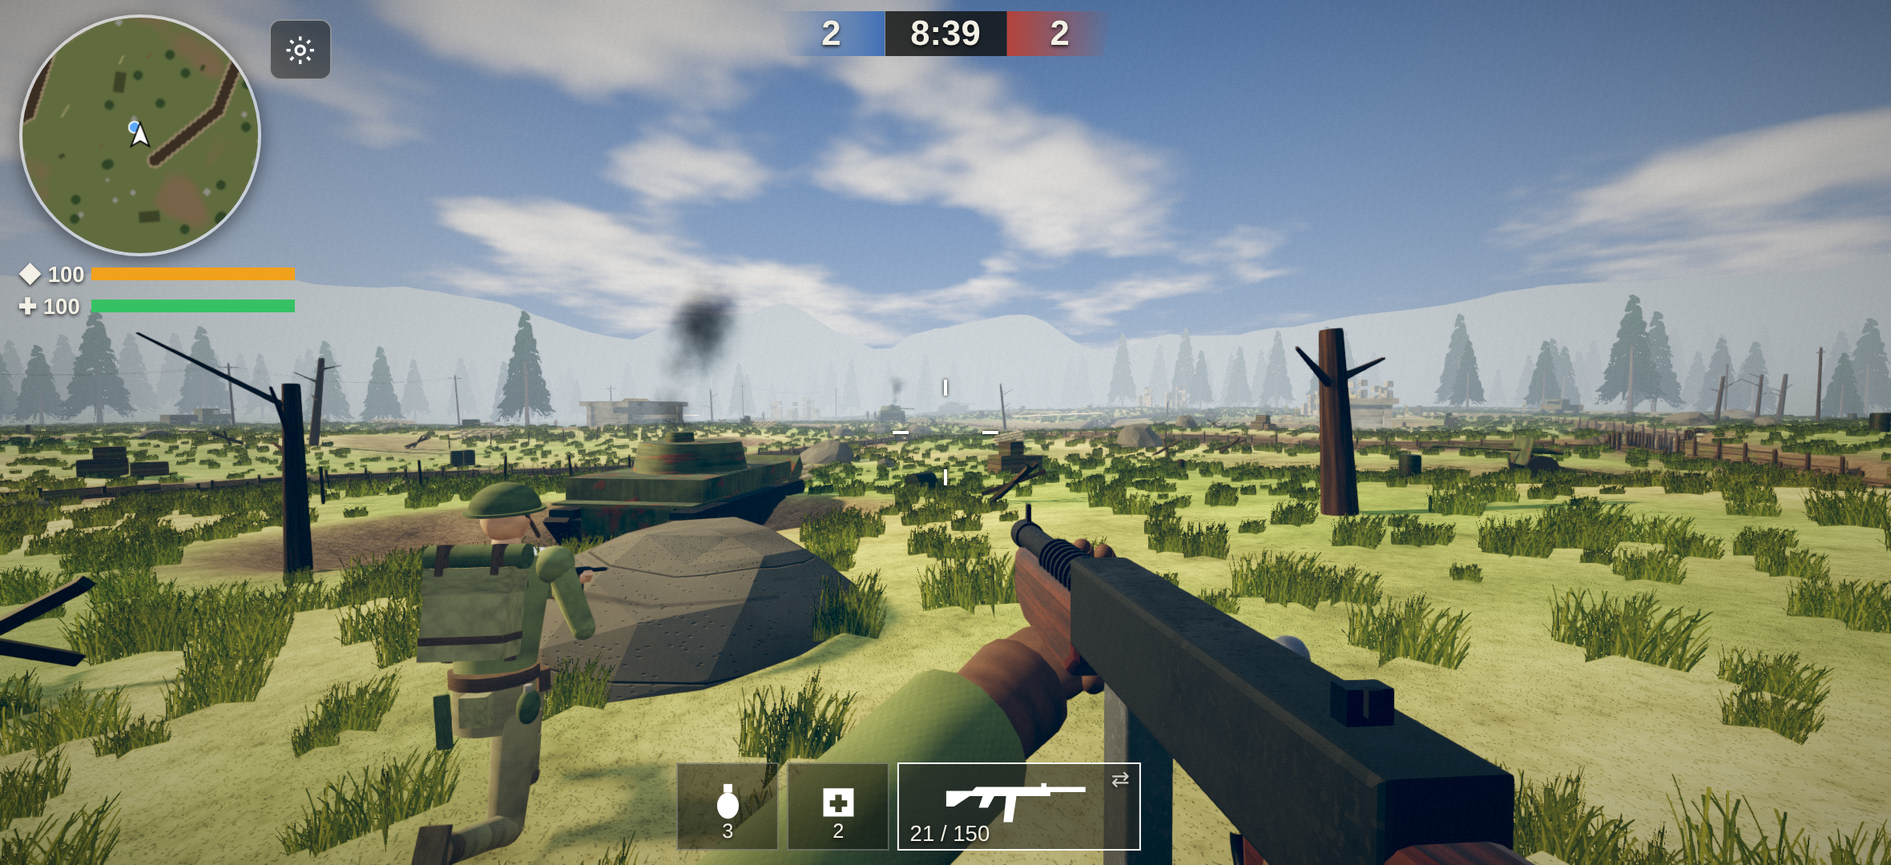
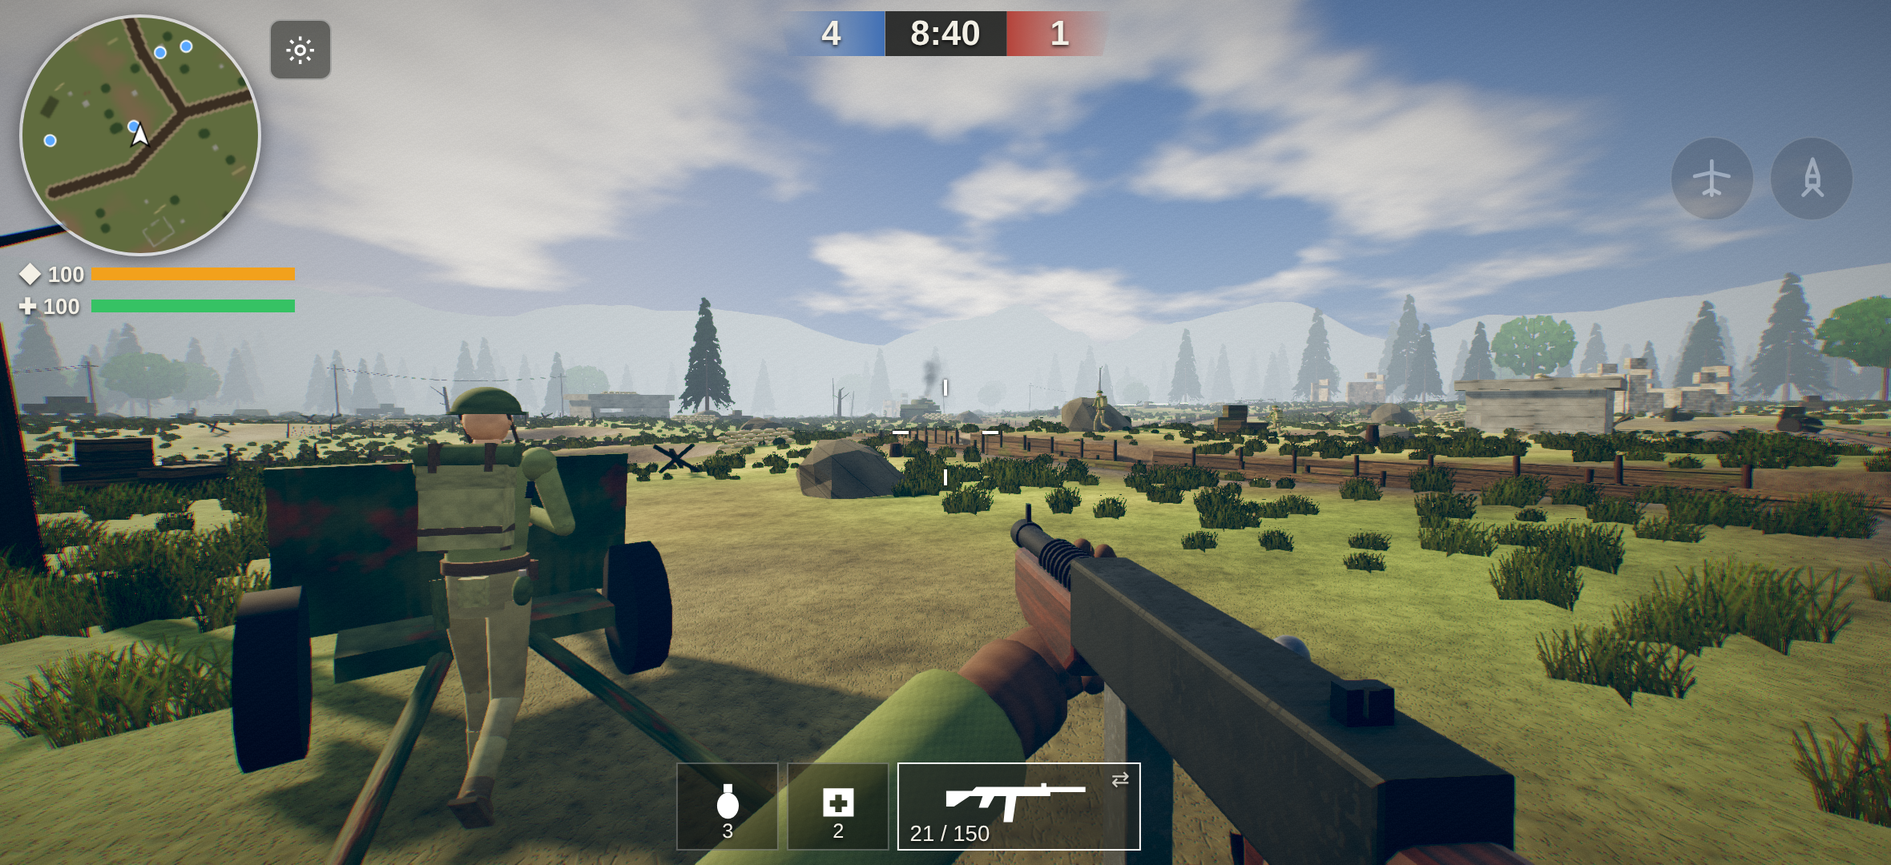
Front de Fer : occlusion ambiante, diffusion solaire, ombres de nuages, boue mouillée, feuillus
Claude-Session: https://claude.ai/code/session_019pJcyirwRmhVyYpd9bGVbS

diff --git a/front-de-fer/world.js b/front-de-fer/world.js
@@ -39,6 +39,10 @@ T.pine=tex(512,null,(g,S)=>{g.clearRect(0,0,S,S);g.strokeStyle='#3a2c20';g.lineW
   for(let k=0;k<26;k++){const f=k/26,bx=S/2+dir*w*f,by=y+droop*f*f+rr(-3,3),sh=rr(0,1),top=1-t*.45;
    g.strokeStyle=`rgba(${(22+sh*40)*top|0},${(46+sh*52)*top|0},${(26+sh*22)*top|0},.95)`;g.lineWidth=rr(1.2,2.6);
    for(let n=0;n<5;n++){const a=rr(0,6.28),l=rr(5,13);g.beginPath();g.moveTo(bx,by);g.lineTo(bx+Math.cos(a)*l,by+Math.sin(a)*l*.7+3);g.stroke()}}}});
+T.leafy=tex(512,null,(g,S)=>{g.clearRect(0,0,S,S);g.strokeStyle='#3b2c20';g.lineCap='round';g.lineWidth=16;g.beginPath();g.moveTo(S/2,S);g.lineTo(S/2,S*.5);g.stroke();
+ for(let i=0;i<9;i++){const a=rr(-1.3,1.3),l=rr(.12,.3)*S;g.lineWidth=rr(3,8);g.beginPath();g.moveTo(S/2,S*rr(.5,.66));g.lineTo(S/2+Math.sin(a)*l,S*.55-Math.cos(a)*l);g.stroke()}
+ for(let i=0;i<420;i++){const a=rnd()*6.283,r=Math.sqrt(rnd()),x=S/2+Math.cos(a)*r*S*.44,y=S*.36+Math.sin(a)*r*S*.33,t=clamp((y/S-.05)/.62,0,1),sh=rnd();
+  g.fillStyle=`rgba(${(70-t*38+sh*26)|0},${(112-t*46+sh*30)|0},${(44-t*18+sh*12)|0},.93)`;g.beginPath();g.ellipse(x,y,rr(9,24),rr(7,17),rnd()*3,0,7);g.fill()}});
 T.grass=tex(256,null,(g,S)=>{g.clearRect(0,0,S,S);for(let i=0;i<150;i++){const x=rr(.08,.92)*S,h=rr(.3,.95)*S,b=rr(-.22,.22)*S,sh=rnd();
  g.strokeStyle=`rgb(${70+sh*90|0},${92+sh*72|0},${36+sh*30|0})`;g.lineWidth=rr(1.5,3.6);g.beginPath();g.moveTo(x,S);g.quadraticCurveTo(x+b*.2,S-h*.6,x+b,S-h);g.stroke()}});
 T.cloud=tex(256,(u,v)=>{const d=Math.hypot(u-.5,(v-.5)*1.7)*2,n=fbm(u*5+3,v*5,5,0),a=clamp((n-.32-d*.42)*3.2,0,1),sh=clamp(.78+(.6-v)*.5+n*.2,0,1);return[255*sh,255*sh,255*sh,a*235]});
@@ -59,7 +63,7 @@ const sky=new THREE.Mesh(new THREE.SphereGeometry(900,32,16),new THREE.ShaderMat
 float hh(vec2 p){return fract(sin(dot(p,vec2(127.1,311.7)))*43758.5453);}
 float nn(vec2 p){vec2 i=floor(p),f=fract(p);f=f*f*(3.-2.*f);return mix(mix(hh(i),hh(i+vec2(1.,0.)),f.x),mix(hh(i+vec2(0.,1.)),hh(i+vec2(1.,1.)),f.x),f.y);}
 float fb(vec2 p){float a=.5,t=0.;for(int i=0;i<5;i++){t+=a*nn(p);p=p*2.03+vec2(17.,9.);a*=.5;}return t;}
-void main(){vec3 n=normalize(d);float t=clamp(n.y,0.,1.);vec3 c=mix(hor,top,pow(t,.36));float s=max(dot(n,sd),0.);c+=vec3(1.,.9,.7)*(pow(s,900.)*6.+pow(s,24.)*.5+pow(s,4.)*.18);
+void main(){vec3 n=normalize(d);float t=clamp(n.y,0.,1.);float s=max(dot(n,sd),0.);vec3 c=mix(mix(hor,vec3(1.12,.96,.78),pow(s,2.5)*.4),top,pow(t,.36));c+=vec3(1.,.9,.7)*(pow(s,900.)*6.+pow(s,24.)*.5+pow(s,4.)*.18);
  if(n.y>.01){vec2 p=n.xz/(n.y+.13)*1.25+vec2(time*.004,time*.0017);float cl=fb(p),cov=smoothstep(.47,.74,cl),lit=clamp((cl-fb(p+sd.xz*.22))*2.6+.55,0.,1.);
   vec3 cc=mix(vec3(.36,.4,.48),vec3(1.3,1.25,1.15),lit)+vec3(1.,.8,.55)*pow(s,6.)*.8;c=mix(c,cc,cov*smoothstep(.01,.2,n.y)*.93);}
  gl_FragColor=vec4(c,1.);}`}));
@@ -72,6 +76,7 @@ scene.add(new THREE.HemisphereLight(C(0xc4d6ee),C(0x8f8668),.85),new THREE.Ambie
  const t=new THREE.CanvasTexture(c);t.encoding=THREE.sRGBEncoding;t.mapping=THREE.EquirectangularReflectionMapping;const pm=new THREE.PMREMGenerator(renderer);scene.environment=pm.fromEquirectangular(t).texture;pm.dispose()}
 const sun=new THREE.DirectionalLight(C(0xffe6bc),2.3);sun.castShadow=true;{const sc=sun.shadow.camera;sc.left=-65;sc.right=65;sc.top=65;sc.bottom=-65;sc.near=1;sc.far=320}
 sun.shadow.mapSize.set(coarse?2048:4096,coarse?2048:4096);sun.shadow.bias=-.0004;sun.shadow.normalBias=.04;scene.add(sun,sun.target);
+const CSG='float chh(vec2 p){return fract(sin(dot(p,vec2(127.1,311.7)))*43758.5453);}float cnn(vec2 p){vec2 i=floor(p),f=fract(p);f=f*f*(3.-2.*f);return mix(mix(chh(i),chh(i+vec2(1.,0.)),f.x),mix(chh(i+vec2(0.,1.)),chh(i+vec2(1.,1.)),f.x),f.y);}float cshadow(vec2 p,float t){p=p*.011+vec2(t*.012,t*.005);float n=cnn(p)*.6+cnn(p*2.1+7.)*.3+cnn(p*4.3)*.1;return mix(.66,1.,smoothstep(.38,.62,n));}';
 const SM=o=>new THREE.MeshStandardMaterial(Object.assign({roughness:.9,metalness:0,envMapIntensity:.45},o));
 // ---------- tranchées et relief ----------
 const MAP=100,HW=1.3,DEPTH=1.3;
@@ -96,7 +101,8 @@ function H(x,z){const fx=clamp((x-GO)/GS,0,GN-1.001),fz=clamp((z-GO)/GS,0,GN-1.0
   let m=1-sst(1.7,4.2+fbm(x*.2,z*.2,2)*3,d);for(const c of CR){const q=Math.hypot(x-c.x,z-c.z)/c.r;if(q<1.6)m=Math.max(m,1-sst(.9,1.6,q))}
   m=Math.max(m,sst(.6,.75,fbm(x*.05+50,z*.05+9,3))*.8);tmp.lerp(mud,m);if(d<HW)tmp.lerp(wet,.75);tmp.toArray(col,i*3)}
  g.setAttribute('color',new THREE.BufferAttribute(col,3));g.computeVertexNormals();
- const gm=SM({map:T.ground,bumpMap:T.ground,bumpScale:.05,vertexColors:true,roughness:.95});gm.onBeforeCompile=sh=>{sh.fragmentShader=sh.fragmentShader.replace('#include <map_fragment>','vec4 tA=texture2D(map,vUv),tB=texture2D(map,vUv*.137),tC=texture2D(map,vUv*.021);diffuseColor*=mapTexelToLinear(vec4(tA.rgb*(.5+tB.rgb*.85)*(.62+tC.rgb*.65),1.));')};
+ const gm=SM({map:T.ground,bumpMap:T.ground,bumpScale:.05,vertexColors:true,roughness:.95});gm.onBeforeCompile=sh=>{sh.uniforms.uTime=windU;sh.vertexShader='uniform float uTime;varying float vCs;'+CSG+'\n'+sh.vertexShader.replace('#include <begin_vertex>','#include <begin_vertex>\nvCs=cshadow(position.xz,uTime);');
+  sh.fragmentShader='varying float vCs;\n'+sh.fragmentShader.replace('#include <map_fragment>','vec4 tA=texture2D(map,vUv),tB=texture2D(map,vUv*.137),tC=texture2D(map,vUv*.021);diffuseColor*=mapTexelToLinear(vec4(tA.rgb*(.5+tB.rgb*.85)*(.62+tC.rgb*.65),1.));diffuseColor.rgb*=vCs;').replace('#include <roughnessmap_fragment>','#include <roughnessmap_fragment>\nroughnessFactor*=mix(1.,.28,(1.-smoothstep(.05,.13,vColor.g))*tB.r);')};
  const m=new THREE.Mesh(g,gm);m.receiveShadow=true;scene.add(m);
  const og=new THREE.PlaneGeometry(2400,2400,80,80);og.rotateX(-Math.PI/2);const op=og.attributes.position;
  for(let i=0;i<op.count;i++){const x=op.getX(i),z=op.getZ(i),r=Math.hypot(x,z);op.setY(i,baseH(x,z)-.6-(Math.max(Math.abs(x),Math.abs(z))<100?9:0)+Math.max(0,r-200)*.11*(.4+fbm(x*.004,z*.004,3)*1.6))}og.computeVertexNormals();
@@ -217,28 +223,30 @@ truck(-10,82,.4);truck(48,80,-1.2);truck(12,-82,2.8);truck(-46,-80,1.9);truck(-6
   cyl('post',r*.62,r,new V3(x,y-.2,z),new V3(x+tx,y+h,z+tz),8);if(h>2){for(let k=0;k<3;k++){const f=rr(.45,.95),a=rr(0,6.28),l=rr(.6,1.6);cyl('post',r*.12,r*.3,new V3(x+tx*f,y+h*f,z+tz*f),new V3(x+tx*f+Math.cos(a)*l,y+h*f+l*rr(.3,.9),z+tz*f+Math.sin(a)*l),5)}}
   colCirc.push({x,z,r:r+.05});solid(x,y+h/2,z,r,h/2,r,0,{col:false,mat:'wood'});reserve(x,z,1)}
  for(const pz of[66,-66]){let prev=null;for(let px=-90;px<=90;px+=22){const x=px+rr(-2,2),z=pz+rr(-2,2);if(!isFree(x,z,.5)){prev=null;continue}const y=H(x,z),tl=rr(-.06,.06),top=new V3(x+tl*7,y+7,z);cyl('post',.09,.13,new V3(x,y-.3,z),top,7);box('post',1.5,.09,.09,top.x,top.y-.5,top.z,0,0,0,2);
-   colCirc.push({x,z,r:.16});reserve(x,z,.8);if(prev&&rnd()>.25)for(const o of[-.6,.6]){const pts=[];for(let k=0;k<=8;k++){const u=k/8;pts.push(new V3(lerp(prev.x,top.x,u)+o,lerp(prev.y,top.y,u)-.5-Math.sin(u*Math.PI)*1.1,lerp(prev.z,top.z,u)))}(B.wire=B.wire||[]).push(new THREE.TubeGeometry(new THREE.CatmullRomCurve3(pts),16,.012,3).toNonIndexed())}prev=top}}
+   colCirc.push({x,z,r:.16});reserve(x,z,.8);if(prev&&rnd()>.25)for(const o of[-.6,.6]){const pts=[];for(let k=0;k<=8;k++){const u=k/8;pts.push(new V3(lerp(prev.x,top.x,u)+o,lerp(prev.y,top.y,u)-.5-Math.sin(u*Math.PI)*1.1,lerp(prev.z,top.z,u)))}(B.wire=B.wire||[]).push(new THREE.TubeGeometry(new THREE.CatmullRomCurve3(pts),16,.022,4).toNonIndexed())}prev=top}}
  const tsh=new THREE.Shape();tsh.moveTo(-1.5,0);tsh.lineTo(0,1.75);tsh.lineTo(1.5,0);tsh.lineTo(-1.5,0);const tg=new THREE.ExtrudeGeometry(tsh,{depth:3.6,bevelEnabled:false});tg.translate(0,0,-1.8);
  for(const t of[[-34,90,.3],[36,92,-.4],[-34,-92,.2],[38,-90,-.3],[62,88,1.2],[-62,-88,1.4]]){if(!isFree(t[0],t[1],2))continue;const y=H(t[0],t[1])-.05;put('tent',tg,t[0],y,t[1],t[2]);solid(t[0],y+.6,t[1],1.2,.6,1.8,t[2],{mat:'sand'});reserve(t[0],t[1],3)}}
 // flaques d'eau au fond des cratères
 {const ws=[];for(const c of CR){if(c.r<2.5)continue;const g=new THREE.CircleGeometry(c.r*.56,20);g.rotateX(-Math.PI/2);g.translate(c.x,Hraw(c.x,c.z)+c.r*.085,c.z);ws.push(g.toNonIndexed())}
- if(ws.length){const w=new THREE.Mesh(mergeG(ws),SM({color:C(0x23241c),roughness:.03,metalness:.1,envMapIntensity:2.4,transparent:true,opacity:.9}));w.receiveShadow=true;scene.add(w)}}
+ if(ws.length){const w=new THREE.Mesh(mergeG(ws),SM({color:C(0x1c1d16),roughness:.06,metalness:.1,envMapIntensity:1.1,transparent:true,opacity:.88}));w.receiveShadow=true;scene.add(w)}}
 // arbres, herbe, rochers
 function cards(n){const gs=[];for(let i=0;i<n;i++){const g=new THREE.PlaneGeometry(1,1);g.translate(0,.5,0);g.rotateY(i*Math.PI/n);gs.push(g.toNonIndexed());const g2=g.clone();g2.rotateY(Math.PI);gs.push(g2.toNonIndexed())}
  const g=mergeG(gs),nr=g.attributes.normal;for(let i=0;i<nr.count;i++)nr.setXYZ(i,0,1,0);return g}
 const D=new THREE.Object3D(),tcol=new THREE.Color(),windU={value:0};
-function windy(m,ax,az){m.onBeforeCompile=sh=>{sh.uniforms.uTime=windU;sh.vertexShader='uniform float uTime;\n'+sh.vertexShader.replace('#include <begin_vertex>','vec3 transformed=vec3(position);float wv=sin(uTime*1.7+instanceMatrix[3].x*.35+instanceMatrix[3].z*.27)+sin(uTime*2.9+instanceMatrix[3].x*.9)*.4;transformed.x+=wv*'+ax+'*position.y*position.y;transformed.z+=wv*'+az+'*position.y*position.y;')};return m}
+function windy(m,ax,az,shade){m.onBeforeCompile=sh=>{sh.uniforms.uTime=windU;sh.fragmentShader='varying float vCs;\n'+sh.fragmentShader.replace('#include <map_fragment>','#include <map_fragment>\ndiffuseColor.rgb*=vCs*'+shade+';');sh.vertexShader='uniform float uTime;varying float vCs;'+CSG+'\n'+sh.vertexShader.replace('#include <begin_vertex>','vec3 transformed=vec3(position);vCs=cshadow(instanceMatrix[3].xz,uTime);float wv=sin(uTime*1.7+instanceMatrix[3].x*.35+instanceMatrix[3].z*.27)+sin(uTime*2.9+instanceMatrix[3].x*.9)*.4;transformed.x+=wv*'+ax+'*position.y*position.y;transformed.z+=wv*'+az+'*position.y*position.y;')};return m}
 let grassMesh=null,grassN=0;
 {const pts=[];const want=coarse?430:640;for(let i=0;i<9000&&pts.length<want;i++){const x=rr(-340,340),z=rr(-340,340),ax=Math.abs(x),az=Math.abs(z),inside=ax<MAP+8&&az<MAP+8;
   let dens=inside?sst(72,100,ax)*.9+(fbm(x*.03,z*.03,2)>.62?.45:.03):.8;if(inside&&az>78&&ax<64)dens*=.15;if(Math.max(ax,az)>230)dens*=.5;
   if(rnd()>dens)continue;if(inside&&!isFree(x,z,2))continue;pts.push([x,z,rr(11,20)])}
- const pin=new THREE.InstancedMesh(cards(3),windy(new THREE.MeshLambertMaterial({map:T.pine,alphaTest:.4}),'.012','.008'),pts.length),trk=new THREE.InstancedMesh(new THREE.CylinderGeometry(.5,1,1,7).translate(0,.5,0),new THREE.MeshLambertMaterial({map:T.bark}),pts.length);
+ const pin=new THREE.InstancedMesh(cards(3),windy(new THREE.MeshLambertMaterial({map:T.pine,alphaTest:.4}),'.012','.008','mix(.6,1.12,abs(vUv.x-.5)*2.)'),pts.length),trk=new THREE.InstancedMesh(new THREE.CylinderGeometry(.5,1,1,7).translate(0,.5,0),new THREE.MeshLambertMaterial({map:T.bark}),pts.length);
+ const dec=new THREE.InstancedMesh(cards(3),windy(new THREE.MeshLambertMaterial({map:T.leafy,alphaTest:.45}),'.02','.012','mix(.55,1.15,vUv.y)'),pts.length);let np=0,nd=0;
+ pts.forEach(p=>{if(Math.max(Math.abs(p[0]),Math.abs(p[1]))<150&&rnd()<.32){p[3]=1;p[2]=rr(8,13)}});
  pts.forEach((p,i)=>{const far=Math.max(Math.abs(p[0]),Math.abs(p[1]))>118,y=(far?baseH(p[0],p[1])-.6+Math.max(0,Math.hypot(p[0],p[1])-200)*.1:H(p[0],p[1]))-.3,h=p[2];
-  D.position.set(p[0],y+h*.08,p[1]);D.rotation.set(0,rnd()*6,0);D.scale.set(h*.52,h,h*.52);D.updateMatrix();pin.setMatrixAt(i,D.matrix);const k=rr(.5,.9);pin.setColorAt(i,tcol.setRGB(k,k*rr(.95,1.1),k*.9));
+  D.position.set(p[0],y+h*.08,p[1]);D.rotation.set(0,rnd()*6,0);const dc=p[3],tm=dc?dec:pin,ti=dc?nd++:np++;D.scale.set(dc?h*.9:h*.52,h,dc?h*.9:h*.52);D.updateMatrix();tm.setMatrixAt(ti,D.matrix);const k=rr(.5,.9);tm.setColorAt(ti,tcol.setRGB(k,k*rr(.95,1.1),k*.9));
   D.position.y=y;D.scale.set(h*.019,h*.6,h*.019);D.updateMatrix();trk.setMatrixAt(i,D.matrix);
   if(!far){colCirc.push({x:p[0],z:p[1],r:h*.017});solid(p[0],y+4,p[1],h*.014,4.5,h*.014,0,{col:false,mat:'wood'});reserve(p[0],p[1],1)}});
- pin.castShadow=trk.castShadow=true;pin.customDepthMaterial=new THREE.MeshDepthMaterial({depthPacking:THREE.RGBADepthPacking,map:T.pine,alphaTest:.4});scene.add(pin,trk);
- const N=coarse?13000:30000,gr=new THREE.InstancedMesh(cards(2),windy(new THREE.MeshLambertMaterial({map:T.grass,alphaTest:.35}),'.09','.05'),N);let k=0;
+ pin.count=np;dec.count=nd;dec.castShadow=true;dec.customDepthMaterial=new THREE.MeshDepthMaterial({depthPacking:THREE.RGBADepthPacking,map:T.leafy,alphaTest:.45});scene.add(dec);pin.castShadow=trk.castShadow=true;pin.customDepthMaterial=new THREE.MeshDepthMaterial({depthPacking:THREE.RGBADepthPacking,map:T.pine,alphaTest:.4});scene.add(pin,trk);
+ const N=coarse?13000:30000,gr=new THREE.InstancedMesh(cards(2),windy(new THREE.MeshLambertMaterial({map:T.grass,alphaTest:.35}),'.09','.05','mix(.38,1.15,vUv.y)'),N);let k=0;
  for(let i=0;i<N*3&&k<N;i++){const x=rr(-112,112),z=rr(-112,112);if(trD(x,z)<HW+.75)continue;let cr=0;for(const c of CR)if(Math.hypot(x-c.x,z-c.z)<c.r*1.2){cr=1;break}if(cr)continue;
   if(fbm(x*.05+50,z*.05+9,3)>.66)continue;const s=rr(.28,.7)*(fbm(x*.15,z*.15,2)+.45);D.position.set(x,H(x,z)-.03,z);D.rotation.set(0,rnd()*3,0);D.scale.set(s*1.2,s*.75,s*1.2);D.updateMatrix();gr.setMatrixAt(k,D.matrix);
   const d=fbm(x*.09+20,z*.09,3),q=rr(.42,.62);gr.setColorAt(k,tcol.setRGB(q*(.78+d*.45),q,q*.62));k++}gr.count=k;grassMesh=gr;grassN=k;gr.receiveShadow=true;scene.add(gr);
@@ -249,7 +257,7 @@ let grassMesh=null,grassN=0;
 build('wood',SM({map:T.wood,bumpMap:T.wood,bumpScale:.03}));build('duck',SM({map:T.wood,color:C(0xd0c2b0)}));build('crate',SM({map:T.wood,color:C(0xdde0c4)}));
 build('post',SM({map:T.bark,color:C(0xb8a890)}));build('sand',SM({map:T.sand,bumpMap:T.sand,bumpScale:.02,roughness:1}));build('conc',SM({map:T.conc,bumpMap:T.conc,bumpScale:.04}));
 build('stone',SM({map:T.stone,bumpMap:T.stone,bumpScale:.05}));build('steel',SM({map:T.metal,color:C(0xd8b090),metalness:.5,roughness:.75}));
-build('wire',SM({color:C(0x3b332c),metalness:.6,roughness:.6}));build('tank',SM({map:T.metal,bumpMap:T.metal,bumpScale:.02,metalness:.2,roughness:.75,envMapIntensity:.3}));build('drum',SM({map:T.metal,color:C(0x9aa080),metalness:.5,roughness:.6,roughnessMap:T.scr}));build('tent',SM({map:T.sand,color:C(0x9aa27c),roughness:1,side:THREE.DoubleSide}));build('dark',SM({color:C(0x0a0c0e),roughness:.15,envMapIntensity:1.2}));build('track',SM({color:C(0x2c2a26),metalness:.5,roughness:.8}));
+build('wire',SM({color:C(0x3b332c),metalness:.6,roughness:.6}));build('tank',SM({map:T.metal,bumpMap:T.metal,bumpScale:.02,metalness:.2,roughness:.75,envMapIntensity:.3}));build('drum',SM({map:T.metal,color:C(0xb4ba96),metalness:.25,roughness:.7,envMapIntensity:.4}));build('tent',SM({map:T.sand,color:C(0x9aa27c),roughness:1,side:THREE.DoubleSide}));build('dark',SM({color:C(0x0a0c0e),roughness:.15,envMapIntensity:1.2}));build('track',SM({color:C(0x2c2a26),metalness:.5,roughness:.8}));
 // carte statique pour la mini-carte (1 px = 0,5 m)
 const mapCv=document.createElement('canvas');mapCv.width=mapCv.height=480;{const g=mapCv.getContext('2d'),id=g.createImageData(480,480),d=id.data;
  for(let j=0;j<480;j++)for(let i=0;i<480;i++){const x=-120+i*.5,z=-120+j*.5,n=fbm(x*.05+50,z*.05+9,3),k=(j*480+i)*4,m=sst(.55,.75,n),td=trD(x,z);
@@ -261,13 +269,23 @@ const mapCv=document.createElement('canvas');mapCv.width=mapCv.height=480;{const
 const hdr=renderer.capabilities.isWebGL2&&!!renderer.extensions.get('EXT_color_buffer_float');
 function mkRT(ms){const o={minFilter:THREE.LinearFilter,magFilter:THREE.LinearFilter,type:hdr?THREE.HalfFloatType:THREE.UnsignedByteType,format:THREE.RGBAFormat,depthBuffer:!!ms||ms===0};
  if(ms){const t=new THREE.WebGLMultisampleRenderTarget(4,4,o);t.samples=4;return t}return new THREE.WebGLRenderTarget(4,4,o)}
-const rtMain=mkRT(hdr&&!coarse?4:0),rtA=mkRT(),rtB=mkRT(),rtC=mkRT(),rtD=mkRT();
+const rtMain=mkRT(0);rtMain.depthTexture=new THREE.DepthTexture(4,4);rtMain.depthTexture.type=THREE.UnsignedIntType;
+const rtAO=new THREE.WebGLRenderTarget(4,4,{minFilter:THREE.LinearFilter,magFilter:THREE.LinearFilter,depthBuffer:false}),WHT=new THREE.DataTexture(new Uint8Array([255,255,255,255]),1,1,THREE.RGBAFormat);WHT.needsUpdate=true;
+const rtA=mkRT(),rtB=mkRT(),rtC=mkRT(),rtD=mkRT();
 const qScene=new THREE.Scene(),qCam=new THREE.OrthographicCamera(-1,1,1,-1,0,1),quad=new THREE.Mesh(new THREE.PlaneGeometry(2,2));quad.frustumCulled=false;qScene.add(quad);
 const QV='varying vec2 vUv;void main(){vUv=uv;gl_Position=vec4(position.xy,0.,1.);}';
 const qm=(fs,u,defs)=>new THREE.ShaderMaterial({vertexShader:QV,fragmentShader:fs,uniforms:u,defines:defs||{},depthTest:false,depthWrite:false});
 const mBright=qm('uniform sampler2D tS;uniform vec2 px;varying vec2 vUv;void main(){vec3 c=texture2D(tS,vUv+px*vec2(1.,1.)).rgb+texture2D(tS,vUv+px*vec2(-1.,1.)).rgb+texture2D(tS,vUv+px*vec2(1.,-1.)).rgb+texture2D(tS,vUv+px*vec2(-1.,-1.)).rgb;c=min(c*.25,vec3(24.));float l=max(c.r,max(c.g,c.b));gl_FragColor=vec4(c*smoothstep(.85,2.4,l),1.);}',{tS:{value:null},px:{value:new THREE.Vector2()}});
 const mBlur=qm('uniform sampler2D tS;uniform vec2 dir;varying vec2 vUv;void main(){vec3 c=texture2D(tS,vUv).rgb*.227;c+=(texture2D(tS,vUv+dir*1.385).rgb+texture2D(tS,vUv-dir*1.385).rgb)*.316;c+=(texture2D(tS,vUv+dir*3.231).rgb+texture2D(tS,vUv-dir*3.231).rgb)*.07;gl_FragColor=vec4(c,1.);}',{tS:{value:null},dir:{value:new THREE.Vector2()}});
-const mFinal=qm(`uniform sampler2D tS,tB,tW;uniform vec2 px,sunUV;uniform float sunK,time,hurt;varying vec2 vUv;
+const mAO=qm(`uniform sampler2D tS;uniform float near,far,tanF,asp;varying vec2 vUv;
+float lz(vec2 uv){float z=texture2D(tS,uv).x*2.-1.;return 2.*near*far/(far+near-z*(far-near));}
+vec3 vp(vec2 uv){float z=lz(uv);return vec3((uv*2.-1.)*vec2(asp*tanF,tanF)*z,-z);}
+void main(){vec3 P=vp(vUv);if(-P.z>140.){gl_FragColor=vec4(1.);return;}
+ vec3 n=normalize(cross(dFdx(P),dFdy(P)));float rad=clamp(.3/(-P.z*tanF),.003,.06),a=fract(sin(dot(gl_FragCoord.xy,vec2(12.9898,78.233)))*43758.5453)*6.283,occ=0.;
+ for(int i=0;i<10;i++){float r=rad*(float(i)+.6)/10.;a+=2.399;vec3 v=vp(vUv+vec2(cos(a)/asp,sin(a))*r)-P;float d=length(v)+1e-4;occ+=max(0.,dot(n,v)/d-.15)/(1.+d*d*3.);}
+ gl_FragColor=vec4(vec3(clamp(1.-occ*.25,0.,1.)),1.);}`,{tS:{value:null},near:{value:.08},far:{value:1500},tanF:{value:1},asp:{value:1}});mAO.extensions.derivatives=true;
+const mFinal=qm(`uniform sampler2D tS,tB,tW,tD,tAO;uniform vec2 px,sunUV;uniform float sunK,time,hurt,near,far,tanF,asp,aoK,caK;uniform vec3 cR,cU,cF,sd;varying vec2 vUv;
+float lz(vec2 uv){float z=texture2D(tD,uv).x*2.-1.;return 2.*near*far/(far+near-z*(far-near));}
 vec3 aces(vec3 x){return clamp((x*(2.51*x+.03))/(x*(2.43*x+.59)+.14),0.,1.);}
 float lu(vec3 c){c=c/(1.+c);return dot(c,vec3(.299,.587,.114));}
 void main(){vec3 c=texture2D(tS,vUv).rgb;
@@ -279,16 +297,19 @@ void main(){vec3 c=texture2D(tS,vUv).rgb;
 #else
  vec3 av=.25*(texture2D(tS,vUv+px*vec2(1.,0.)).rgb+texture2D(tS,vUv-px*vec2(1.,0.)).rgb+texture2D(tS,vUv+px*vec2(0.,1.)).rgb+texture2D(tS,vUv-px*vec2(0.,1.)).rgb);c=max(c+(c-av)*.35,0.);
 #endif
+ vec2 qq=vUv-.5;float ca=dot(qq,qq)*.011*caK;c.r=mix(c.r,texture2D(tS,vUv-qq*ca).r,.8);c.b=mix(c.b,texture2D(tS,vUv+qq*ca).b,.8);
+ float ao=.25*(texture2D(tAO,vUv+px*vec2(2.,2.)).r+texture2D(tAO,vUv+px*vec2(-2.,2.)).r+texture2D(tAO,vUv+px*vec2(2.,-2.)).r+texture2D(tAO,vUv-px*vec2(2.,2.)).r);c*=mix(1.,ao,aoK);
+ float zz=lz(vUv);vec3 vd=normalize(cF+cR*((vUv.x*2.-1.)*asp*tanF)+cU*((vUv.y*2.-1.)*tanF));float sdt=max(dot(vd,sd),0.),ff=(1.-exp(-zz*.011))*step(zz,850.);c+=vec3(1.,.8,.56)*(pow(sdt,5.)*.36+pow(sdt,40.)*.7)*ff*ff;
  vec3 bl=texture2D(tB,vUv).rgb*.5+texture2D(tW,vUv).rgb*.6;vec3 rays=vec3(0.);vec2 d2=sunUV-vUv;for(int i=1;i<=12;i++){rays+=texture2D(tW,vUv+d2*float(i)*.065).rgb*(1.-float(i)*.07);}
  c+=bl*.26+rays*.028*sunK;c=aces(c*.95);
  float l=dot(c,vec3(.299,.587,.114));c=mix(vec3(l),c,.93);c=mix(c,c*c*(3.-2.*c),.4);c+=vec3(-.014,.0,.018)*(1.-l)+vec3(.022,.008,-.016)*l;
  c=pow(max(c,0.),vec3(1./2.2));vec2 q=vUv-.5;float v=dot(q,q);c*=1.-v*.8;c=mix(c,vec3(.5,.02,.0)*c*2.+vec3(.12,0.,0.),clamp(hurt*v*3.2,0.,.85));
  float n=fract(sin(dot(gl_FragCoord.xy+time*61.,vec2(12.9898,78.233)))*43758.5453);c+=(n-.5)*.03;gl_FragColor=vec4(c,1.);}`,
- {tS:{value:null},tB:{value:null},tW:{value:null},px:{value:new THREE.Vector2()},sunUV:{value:new THREE.Vector2(.5,.5)},sunK:{value:0},time:{value:0},hurt:{value:0}},coarse?{}:{FXAA:1});
-let RW=4,RH=4,bloomOn=true;const BLK=new THREE.DataTexture(new Uint8Array([0,0,0,255]),1,1,THREE.RGBAFormat);BLK.needsUpdate=true;
-function setQuality(q){const dpr=devicePixelRatio||1;renderer.setPixelRatio(Math.min(dpr,[1,coarse?1.25:1.5,coarse?1.6:2][q]));bloomOn=q>0;const ss=[1024,2048,coarse?2048:4096][q];if(sun.shadow.mapSize.x!==ss){sun.shadow.mapSize.set(ss,ss);if(sun.shadow.map){sun.shadow.map.dispose();sun.shadow.map=null}}
+ {tS:{value:null},tB:{value:null},tW:{value:null},px:{value:new THREE.Vector2()},sunUV:{value:new THREE.Vector2(.5,.5)},sunK:{value:0},time:{value:0},hurt:{value:0},tD:{value:null},tAO:{value:null},near:{value:.08},far:{value:1500},tanF:{value:1},asp:{value:1},aoK:{value:1},caK:{value:1},cR:{value:new V3()},cU:{value:new V3()},cF:{value:new V3()},sd:{value:sunDir}},coarse?{}:{FXAA:1});
+let RW=4,RH=4,bloomOn=true,aoOn=!coarse;const BLK=new THREE.DataTexture(new Uint8Array([0,0,0,255]),1,1,THREE.RGBAFormat);BLK.needsUpdate=true;
+function setQuality(q){const dpr=devicePixelRatio||1;renderer.setPixelRatio(Math.min(dpr,[1,coarse?1.25:1.5,coarse?1.6:2][q]));bloomOn=q>0;aoOn=q>1;const ss=[1024,2048,coarse?2048:4096][q];if(sun.shadow.mapSize.x!==ss){sun.shadow.mapSize.set(ss,ss);if(sun.shadow.map){sun.shadow.map.dispose();sun.shadow.map=null}}
  if(grassMesh)grassMesh.count=Math.floor(grassN*[.4,.75,1][q]);renderer.setSize(innerWidth,innerHeight,false);resizeRT()}
-function resizeRT(){const pr=renderer.getPixelRatio();RW=Math.max(4,Math.round(innerWidth*pr));RH=Math.max(4,Math.round(innerHeight*pr));rtMain.setSize(RW,RH);rtA.setSize(RW>>2,RH>>2);rtB.setSize(RW>>2,RH>>2);rtC.setSize(RW>>3,RH>>3);rtD.setSize(RW>>3,RH>>3)}
+function resizeRT(){const pr=renderer.getPixelRatio();RW=Math.max(4,Math.round(innerWidth*pr));RH=Math.max(4,Math.round(innerHeight*pr));rtMain.setSize(RW,RH);rtAO.setSize(RW>>1,RH>>1);rtA.setSize(RW>>2,RH>>2);rtB.setSize(RW>>2,RH>>2);rtC.setSize(RW>>3,RH>>3);rtD.setSize(RW>>3,RH>>3)}
 const _sp=new V3();
 function pass(m,src,dst){quad.material=m;m.uniforms.tS.value=src.texture;renderer.setRenderTarget(dst);renderer.render(qScene,qCam)}
 function renderFrame(vS,vC,time,hurt){windU.value=time;sky.material.uniforms.time.value=time;renderer.setRenderTarget(rtMain);renderer.clear();renderer.render(scene,cam);if(vS){renderer.clearDepth();renderer.render(vS,vC)}
@@ -297,4 +318,6 @@ function renderFrame(vS,vC,time,hurt){windU.value=time;sky.material.uniforms.tim
   mBlur.uniforms.dir.value.set(ax*2,0);pass(mBlur,rtA,rtD);mBlur.uniforms.dir.value.set(0,ay*2);pass(mBlur,rtD,rtC);
   mBlur.uniforms.dir.value.set(ax*4,0);pass(mBlur,rtC,rtD);mBlur.uniforms.dir.value.set(0,ay*4);pass(mBlur,rtD,rtC);u.tB.value=rtA.texture;u.tW.value=rtC.texture}else{u.tB.value=BLK;u.tW.value=BLK}
  _sp.copy(cam.position).addScaledVector(sunDir,800).project(cam);const on=_sp.z<1&&Math.abs(_sp.x)<1.5&&Math.abs(_sp.y)<1.5?1:0;u.sunK.value+=(on-u.sunK.value)*.1;u.sunUV.value.set(_sp.x*.5+.5,_sp.y*.5+.5);
+ const tf=Math.tan(cam.fov*Math.PI/360);u.near.value=cam.near;u.far.value=cam.far;u.tanF.value=tf;u.asp.value=cam.aspect;cam.matrixWorld.extractBasis(u.cR.value,u.cU.value,_sp);cam.getWorldDirection(u.cF.value);u.tD.value=rtMain.depthTexture;
+ if(aoOn){const a=mAO.uniforms;a.near.value=cam.near;a.far.value=cam.far;a.tanF.value=tf;a.asp.value=cam.aspect;pass(mAO,{texture:rtMain.depthTexture},rtAO);u.tAO.value=rtAO.texture;u.aoK.value=.9}else{u.tAO.value=WHT;u.aoK.value=0}
  u.px.value.set(1/RW,1/RH);u.time.value=time%100;u.hurt.value=hurt||0;pass(mFinal,rtMain,null)}
